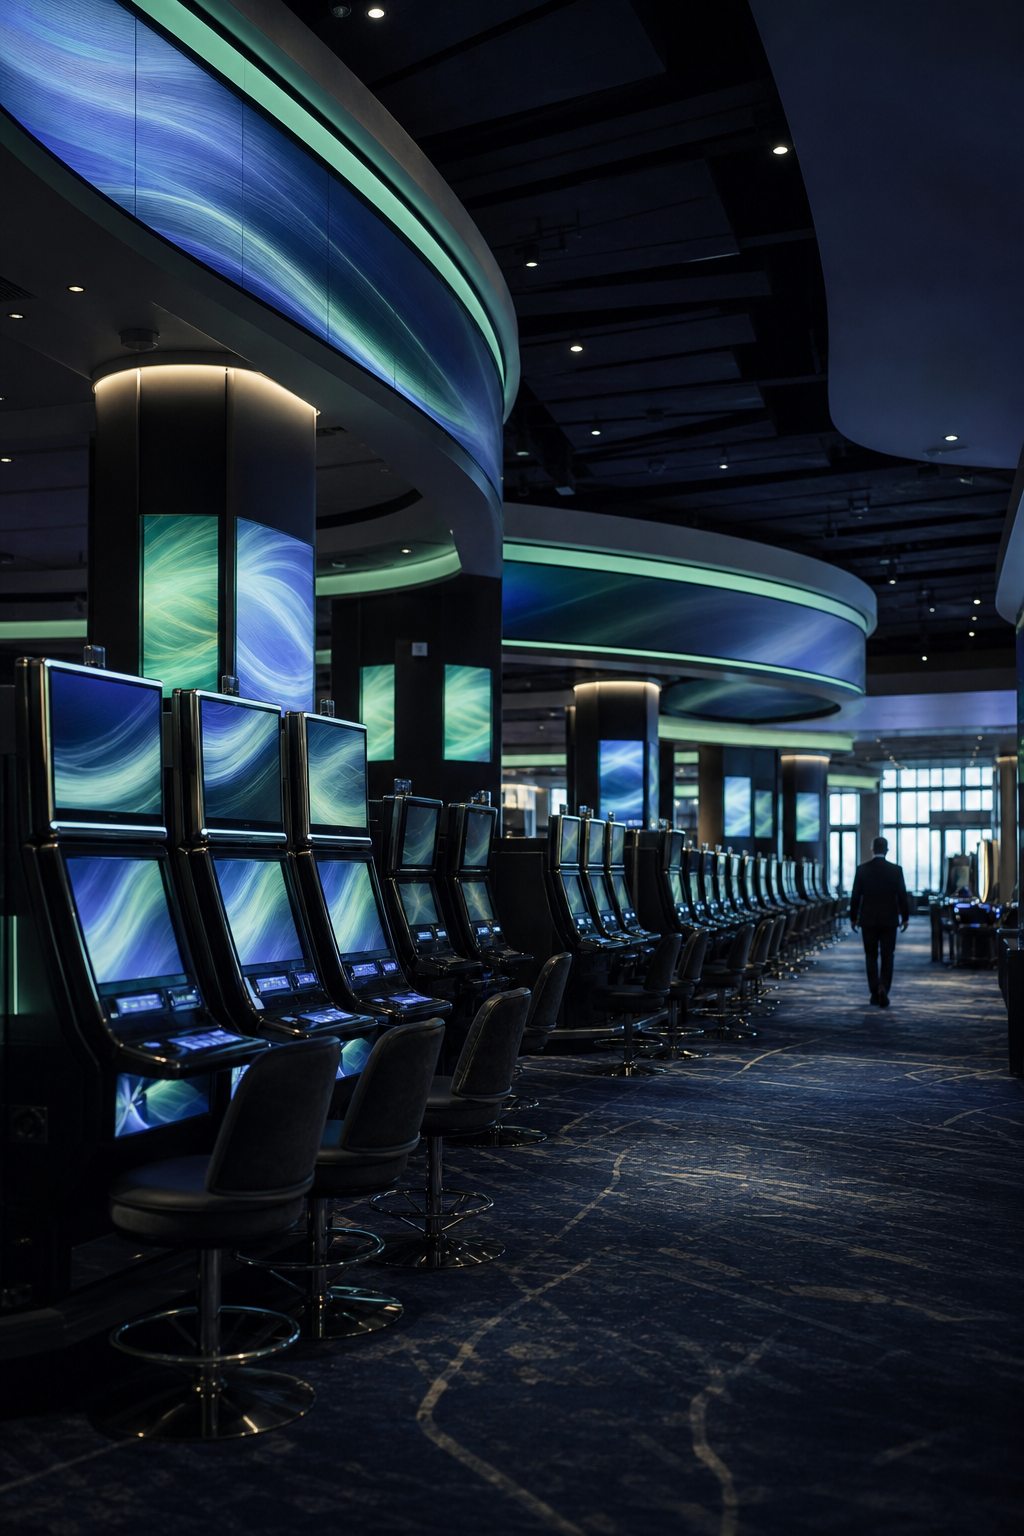
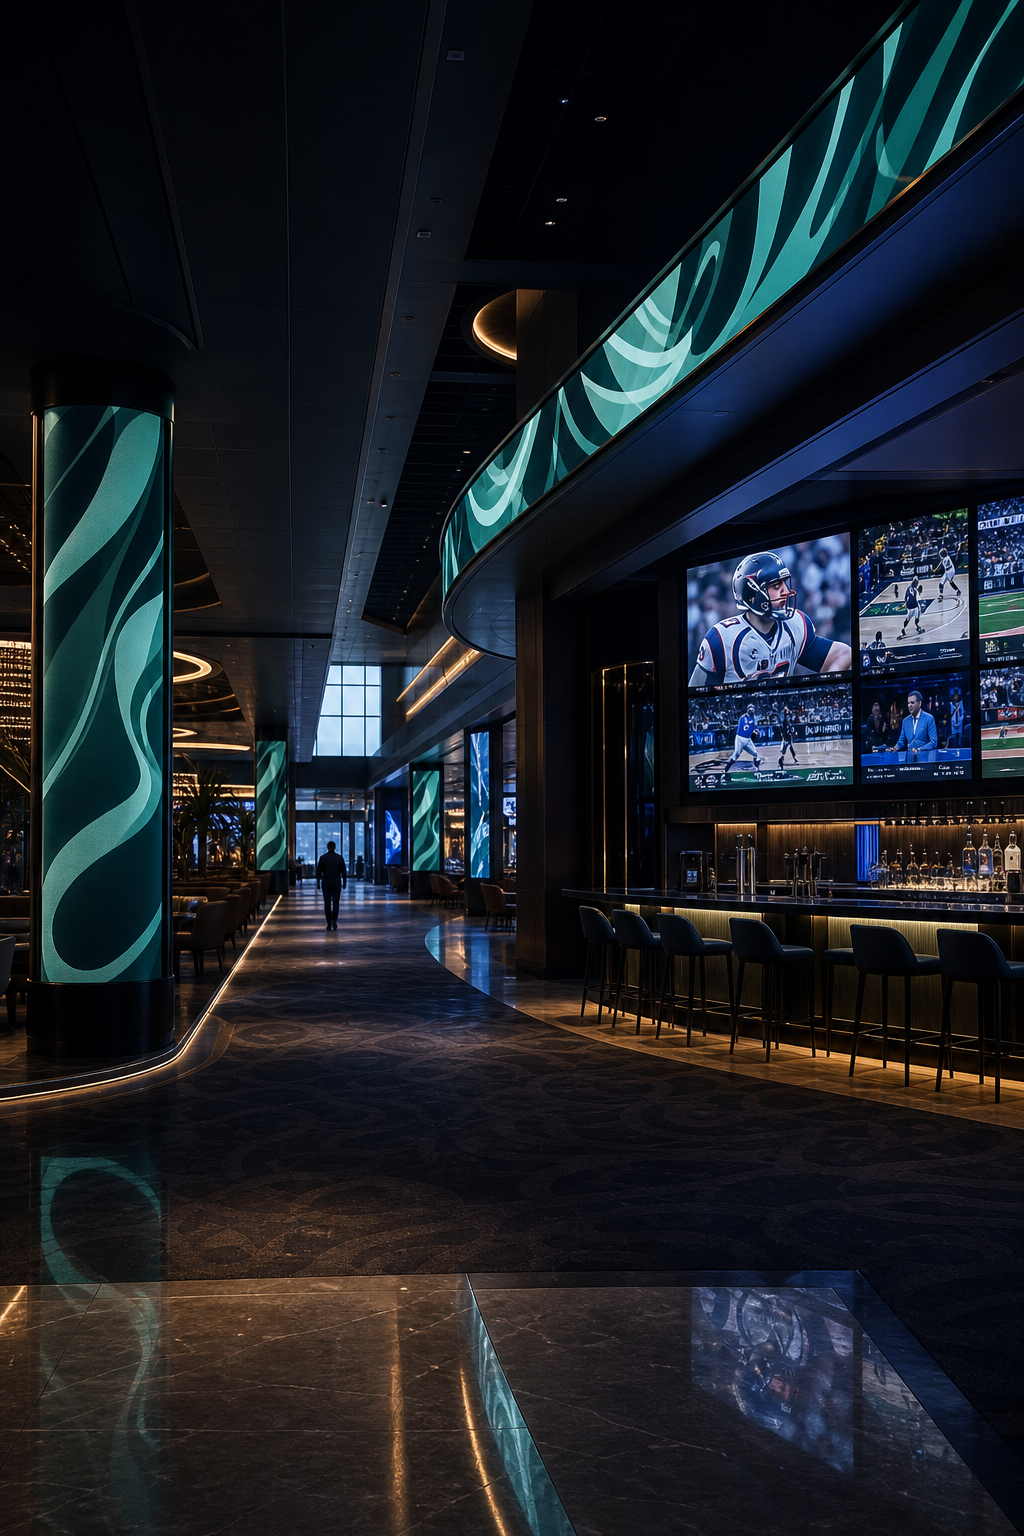
Casino capability cards: re-roll Morning Reset + Jackpot Celebration
- Morning Reset: drop slot machines; show the signage/LED baseline a morning reset actually
  governs — sportsbar playing sports, ad/ribbon boards running, wayfinding LED
  pillars on the right content
- Jackpot Celebration: recompose so the celebrating guests sit in the upper
  two-thirds, leaving a clean dark floor at the bottom for the caption scrim
- Bump both to ?v=2 to bust cache

diff --git a/src/data/industryDetails.ts b/src/data/industryDetails.ts
@@ -201,7 +201,7 @@ export const industryDetails: Partial<Record<IndustrySlug, IndustryDetail>> = {
         index: '01',
         title: 'Morning Reset',
         trigger: 'Every morning, automatically.',
-        image: '/images/industries/casino/capability-morning-reset.png?v=1',
+        image: '/images/industries/casino/capability-morning-reset.png?v=2',
         imageAlt: 'Empty casino gaming floor at dawn, every screen and ribbon board on a clean coordinated baseline, a single staffer walking the far aisle',
         detail:
           'One scheduled preset returns every screen and zone to its intended state before doors open — so the GM\u2019s walkthrough never starts with Judge Judy.',
@@ -210,7 +210,7 @@ export const industryDetails: Partial<Record<IndustrySlug, IndustryDetail>> = {
         index: '02',
         title: 'Jackpot Celebration',
         trigger: 'The moment a jackpot hits.',
-        image: '/images/industries/casino/capability-jackpot-celebration.png?v=1',
+        image: '/images/industries/casino/capability-jackpot-celebration.png?v=2',
         imageAlt: 'A guest celebrating a slot jackpot win as the surrounding zone lights up in a coordinated gold celebration',
         detail:
           'A coordinated preset fires in that zone — lighting pulses, audio swells, nearby screens celebrate — then reverts on its own, calibrated per zone.',
